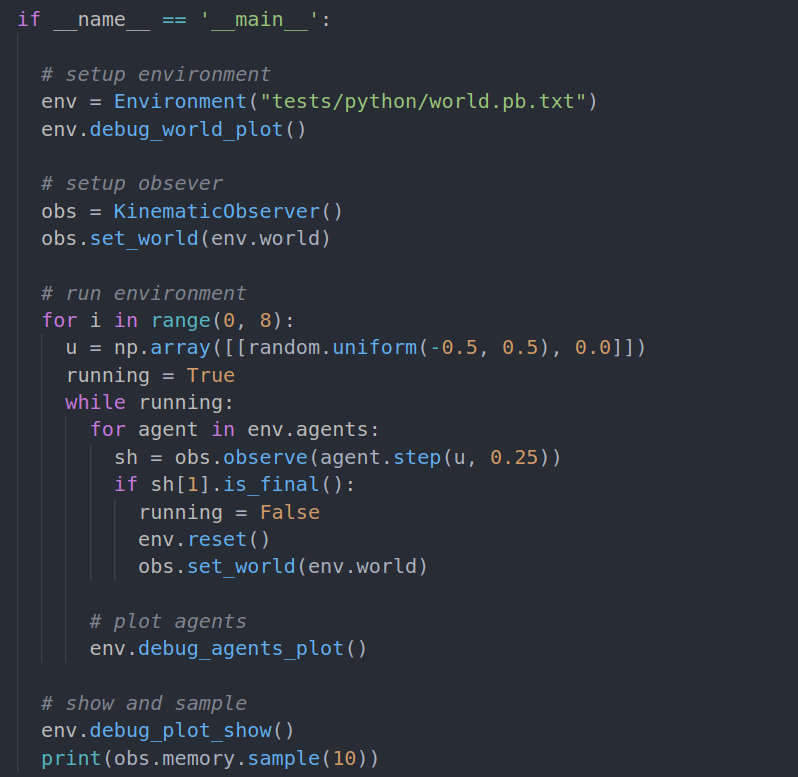
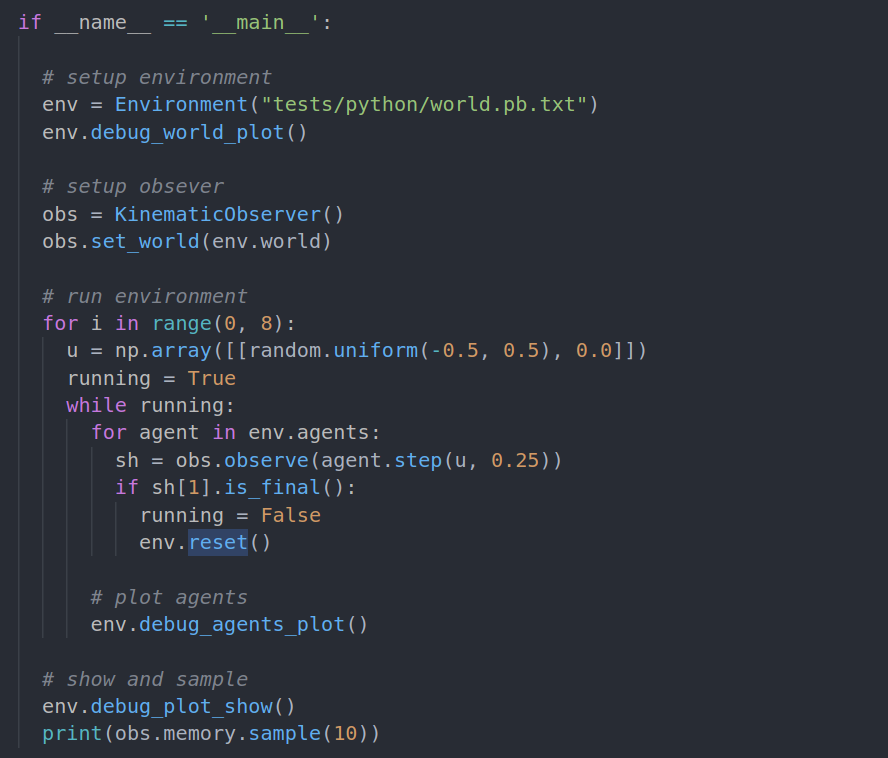
fixed observer

diff --git a/src/python_bindings/world_bindings.cpp b/src/python_bindings/world_bindings.cpp
@@ -43,6 +43,7 @@ void world_bindings(py::module m)
         .def("add_object", &environment::world::World::add_object)
         .def("get_agents", &environment::world::World::get_agents)
         .def("collides", &environment::world::World::collides)
+        .def("reset", &environment::world::World::reset)
         .def("set_bounding_box", &environment::world::World::set_bounding_box)
         .def("get_bounding_box", &environment::world::World::get_bounding_box)
         .def("get_objects", &environment::world::World::get_objects);

diff --git a/src/environment/environment.py b/src/environment/environment.py
@@ -32,7 +32,7 @@ class Environment(threading.Thread):
 		self.world.collides(obj)
 
 	def reset(self):
-		self.world = World()
+		self.world.reset()
 		self.load_world(self.proto_path)
 
 	def load_proto(self, path):
@@ -120,7 +120,6 @@ if __name__ == '__main__':
 				if sh[1].is_final():
 					running = False
 					env.reset()
-					obs.set_world(env.world)
 			
 			# plot agents
 			env.debug_agents_plot()

diff --git a/src/environment/world/world.h b/src/environment/world/world.h
@@ -81,6 +81,7 @@ public:
 
     Polygon_t<double, 2>& get_bounding_box(){ return bounding_box_; }
 
+    void reset(){ objects_.clear(); agent_count_ = 0; };
 
 private:
     std::vector<std::shared_ptr<BaseType>> objects_; // list of base objects
